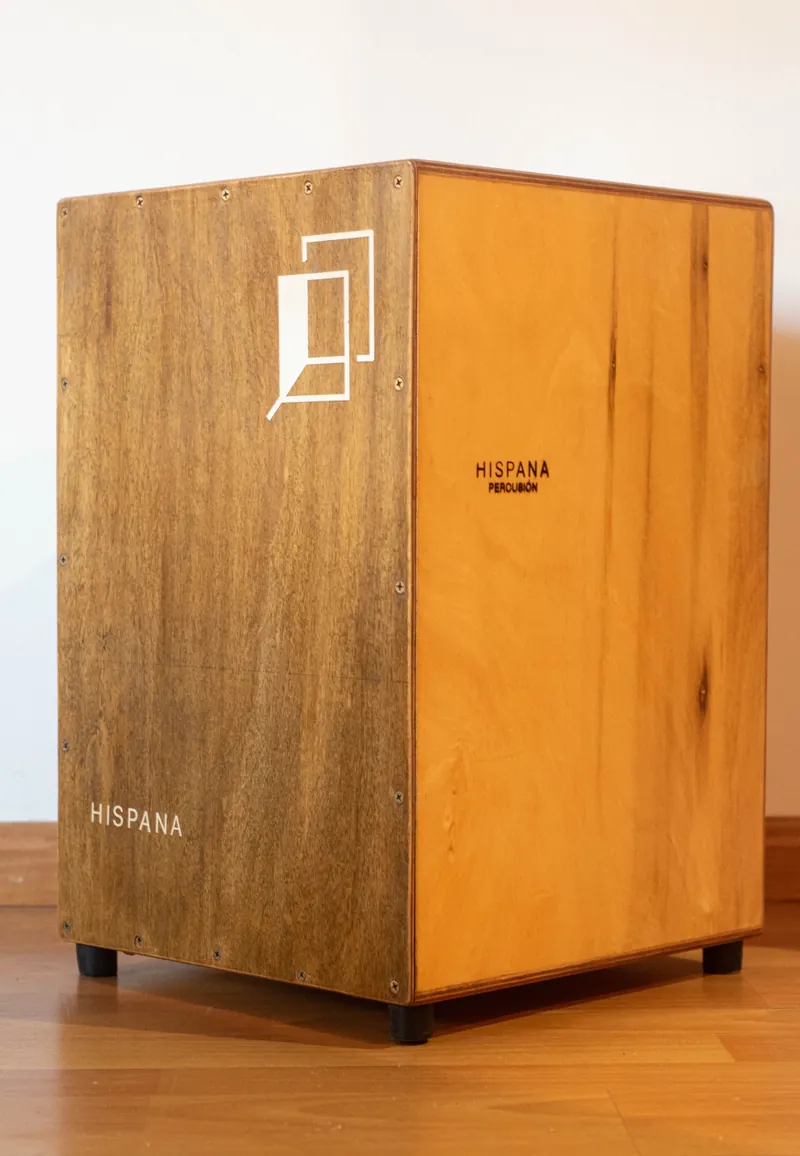
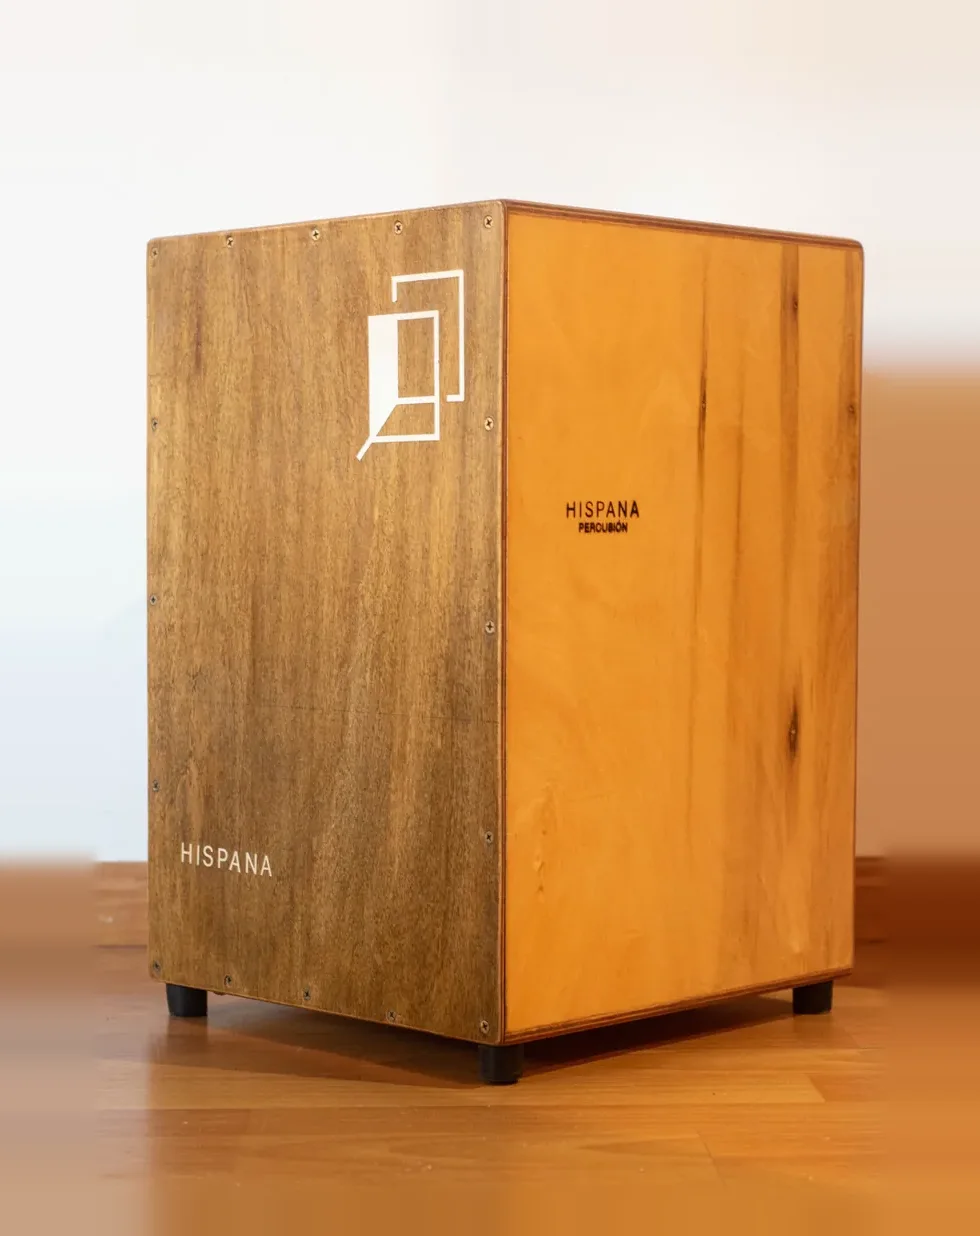
Cajón: foto con más aire alrededor y menos zoom
Claude-Session: https://claude.ai/code/session_01Ho8PPGzS2KABDhBSZYvrLR

Changed region(s): [[0.0, 0.1246, 1.0, 1.0], [0.5625, 0.2803, 0.7188, 0.436], [0.2812, 0.3114, 0.3125, 0.3426]]

diff --git a/public/en/index.html b/public/en/index.html
@@ -303,7 +303,7 @@ nav.chico .wrap{height:58px}
 .carta.inclina:hover::after{opacity:1}
 .carta:hover{transform:none}
 .caj-foto{transition:transform .6s var(--ease)}
-.caj-foto img{transform:scale(1.08);will-change:transform}
+.caj-foto img{transform:scale(1.03);will-change:transform}
 /* carrusel */
 .cuadro img{transition:transform .8s var(--ease)}
 .cuadro:hover img{transform:scale(1.04)}

diff --git a/public/index.html b/public/index.html
@@ -303,7 +303,7 @@ nav.chico .wrap{height:58px}
 .carta.inclina:hover::after{opacity:1}
 .carta:hover{transform:none}
 .caj-foto{transition:transform .6s var(--ease)}
-.caj-foto img{transform:scale(1.08);will-change:transform}
+.caj-foto img{transform:scale(1.03);will-change:transform}
 /* carrusel */
 .cuadro img{transition:transform .8s var(--ease)}
 .cuadro:hover img{transform:scale(1.04)}
